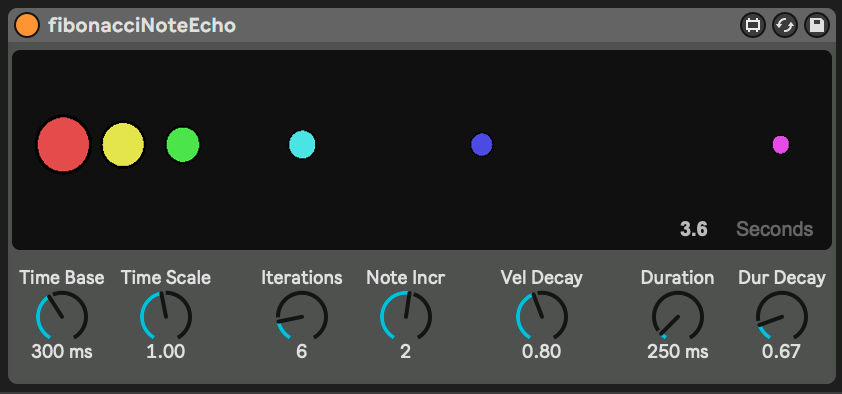
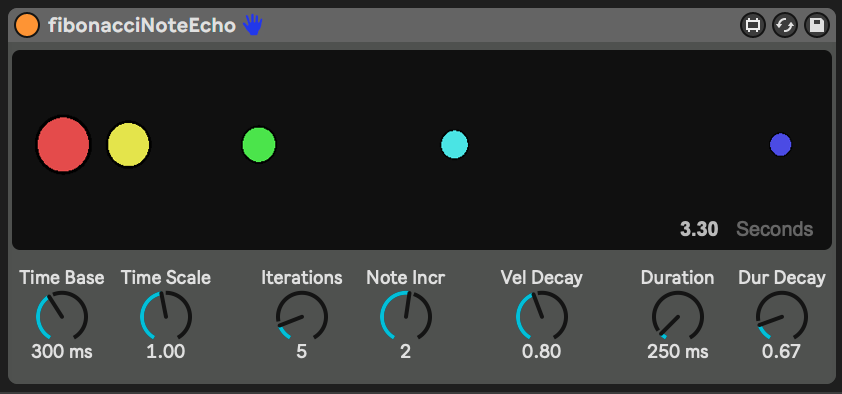
fix fib algo

diff --git a/fibonacciNoteEcho.js b/fibonacciNoteEcho.js
@@ -51,22 +51,28 @@ function setupPattern() {
     time_offset: 0
   });
 
-  var prv = options[INLET_TIMESCALE];
-  var fib = prv * 2;
+  var prv = 1;
+  var fib = 1;
   var tmp;
+  var prv_time_offset = 0;
+  var new_time_offset = 0;
 
   for (var i = 1; i < options[INLET_ITERATIONS]; i++) {
     //utils.log(fib);
+    new_time_offset = prv_time_offset + options[INLET_TIMESCALE] * options[INLET_TIME_BASE] * fib
+
     pattern.push({
       note_incr: i * options[INLET_NOTE_INCR],
       velocity_coeff: Math.pow(options[INLET_VELOCITY_DECAY], i),
       duration: options[INLET_DUR_BASE] * Math.pow(options[INLET_DUR_DECAY], i),
-      time_offset: options[INLET_TIME_BASE] * (fib - 1)
+      time_offset: new_time_offset
     });
     tmp = fib;
     fib = fib + prv;
     prv = tmp;
+    prv_time_offset = new_time_offset;
   }
+  //utils.log(pattern);
 
   // Pass 'update' as the head of the array sent to the JSUI outlet calls the
   // 'update' method in the jsui object with the rest of the pattern array as

diff --git a/fib-jsui.js b/fib-jsui.js
@@ -41,8 +41,7 @@ function draw()
   if (pattern.length > 0) {
     sketch.textalign("center");
     sketch.glcolor(1,1,1,1);
-    outlet(0, parseInt(pattern[pattern.length - 1].time_offset)/1000.0);
-    //sketch.text("<--- Total " + parseInt(pattern[pattern.length - 1].time_offset)/1000 + " seconds --->");
+    outlet(OUTLET_DURATION, parseInt(pattern[pattern.length - 1].time_offset)/1000.0);
   }
 }
 
